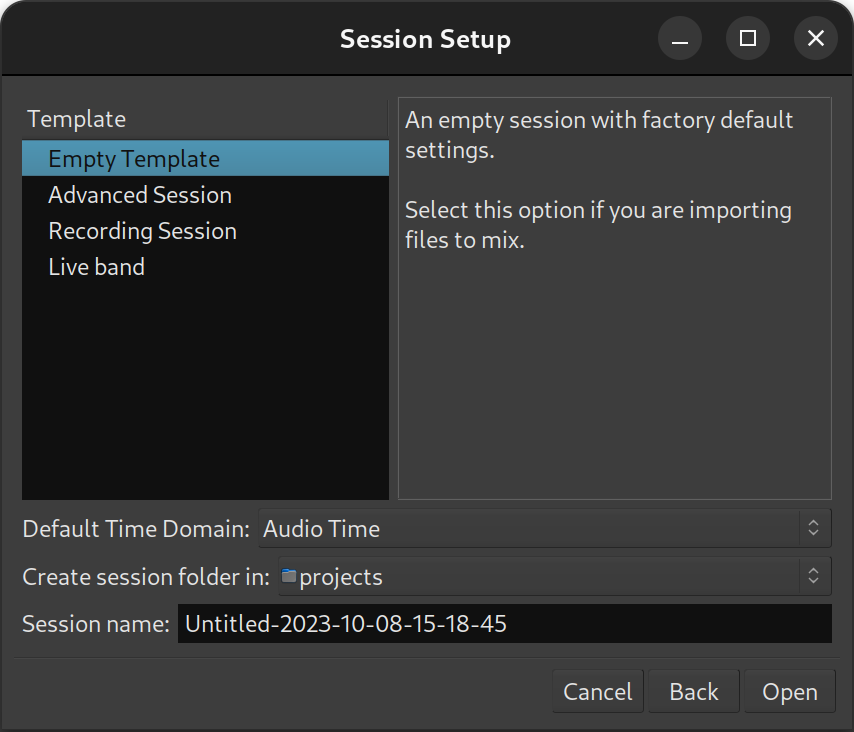
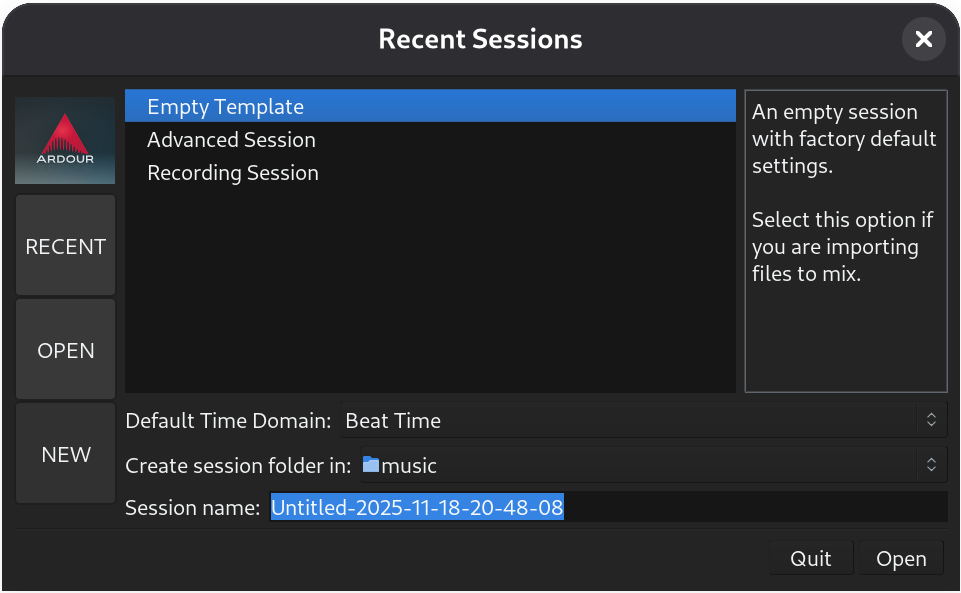
Update docs re the new recent/open/new session dialog

diff --git a/source/sessions-tracks/sessions/new-open-session-dialog.rst b/source/sessions-tracks/sessions/new-open-session-dialog.rst
@@ -5,12 +5,12 @@ New/Open Session dialog
 
 The initial session dialog, displayed at each start of Ardour, consists of several consecutive pages:
 
-Open Session page
------------------
+Recent page
+-----------
 
 .. figure:: images/session_setup.png
    :alt: The Session Setup dialog
-   :class: right-float
+   :width: 50%
 
 On this page, an existing session can be opened. Any :ref:`snapshot <snapshots>` of a particular session can also be accessed by clicking on the arrow next to the session name to display all snapshots, and then selecting one.
 
@@ -18,12 +18,27 @@ If the session is not displayed in the **Recent Sessions** list, the **Other Ses
 
 Alternatively, a new session can be created.
 
-New Session page
+Open page
+---------
+
+.. figure:: images/open-session-page.png
+   :alt: The Session Setup dialog
+   :width: 50%
+
+This page allows to open an arbitrary session from the disk.
+
+Available options are:
+
+-  Regular Ardour sessions
+-  Ardour session archives
+-  Sessions in the Advanced Authoring Format (AAF)
+
+New page
 ----------------
 
 .. figure:: images/session_new.png
    :alt: The New Session Dialog
-   :class: right-float
+   :width: 50%
 
 This page allows to type in the name of a session, select a folder to save it in, and optionally use an existing :ref:`template <session-templates>`. The different templates, both the "factory" ones and the ones created by the user, are easily available on the left-side panel.
 
@@ -31,7 +46,7 @@ Depending on the chosen template, a specific **Template Setup** window may be sh
 
 .. figure:: images/template-setup.png
    :alt: Template Setup dialog
-   :class: right-float
+   :width: 50%
 
 Templates can be huge time savers when working on similar projects, or on usual projects, as they allow to preset and tweak a lot of the :ref:`session properties <session_properties>`, (like the availability of a :ref:`monitoring section <monitor_section>`, connection to a Master Bus, etc.), and handle the creation of :ref:`tracks <adding_tracks_busses_and_vcas>` of any kind.
 
